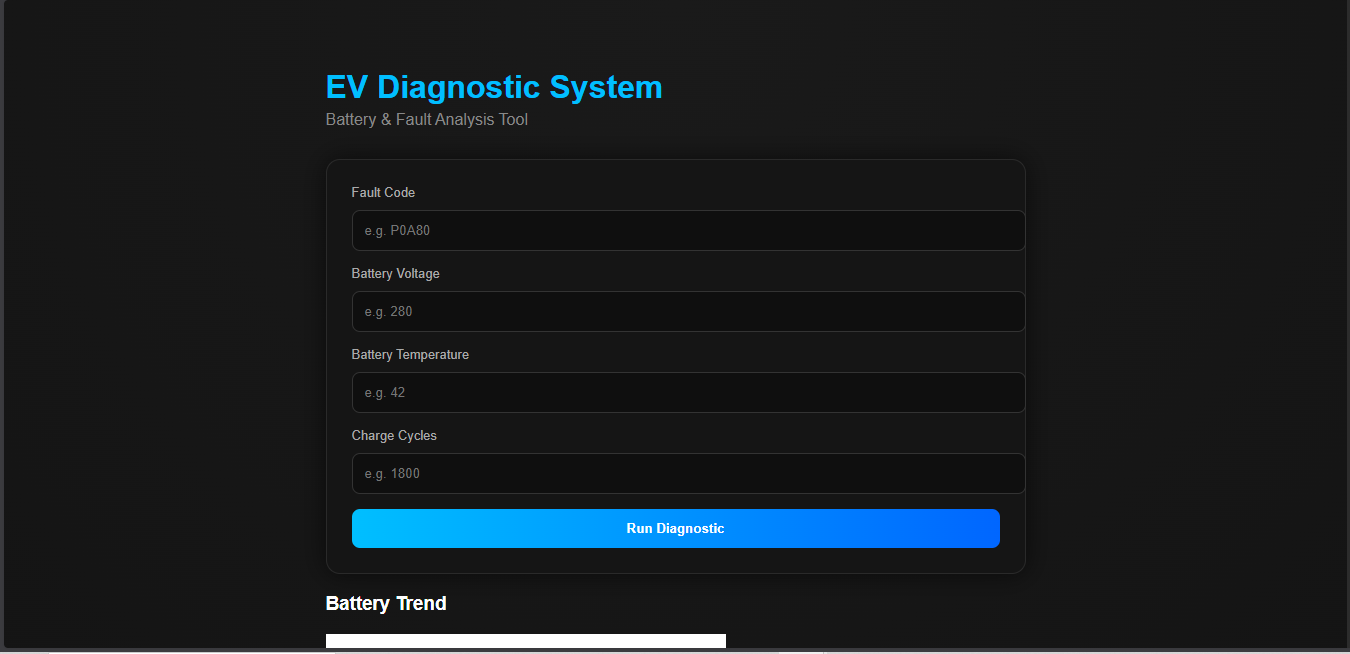
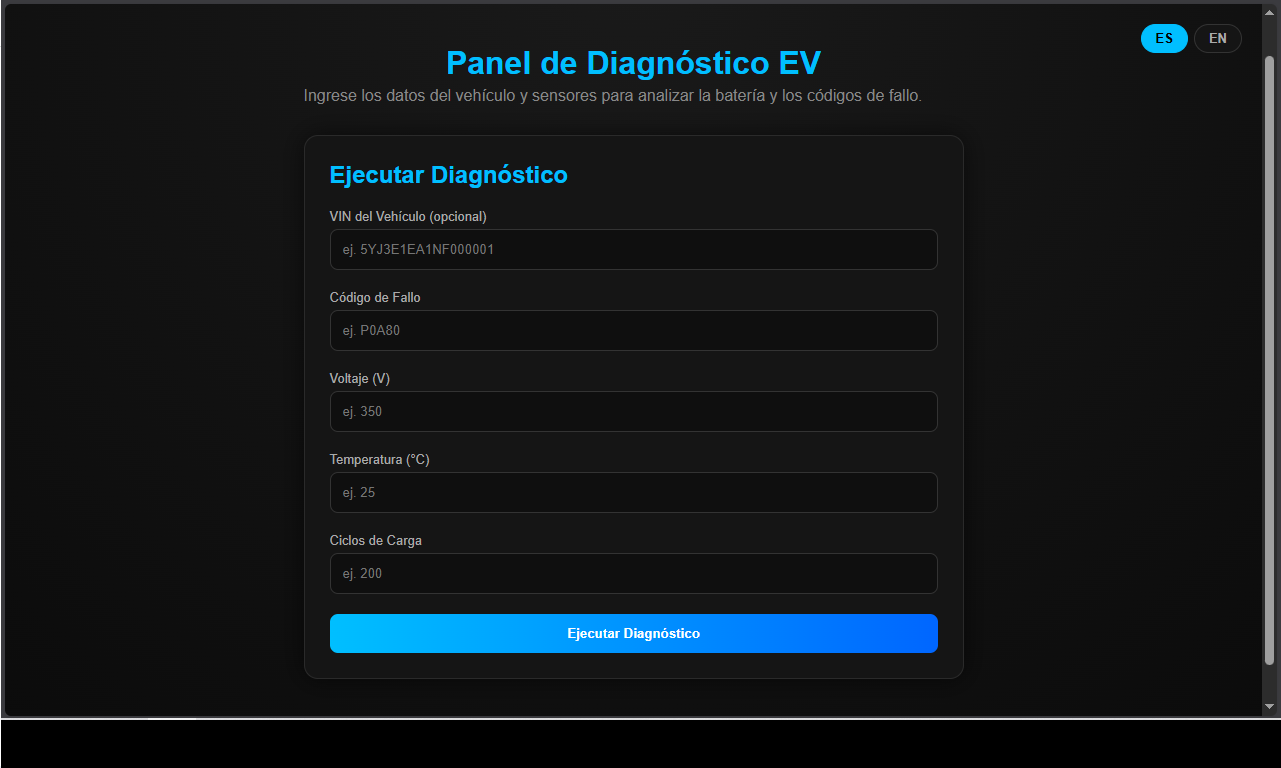
Add REST API and dashboard improvements

diff --git a/app.py b/app.py
@@ -7,7 +7,7 @@ import matplotlib
 matplotlib.use("Agg")
 import matplotlib.pyplot as plt
 import pandas as pd
-from flask import Flask, render_template, request, redirect, url_for, session
+from flask import Flask, render_template, request, redirect, url_for, session, jsonify
 
 from reportlab.lib.pagesizes import letter
 from reportlab.pdfgen import canvas
@@ -419,6 +419,22 @@ def delete_record(record_id):
     return redirect(url_for("history", vin=vin))
 
 
+# REST API
[email redacted]("/api/status")
+def api_status():
+
+    return jsonify({
+        "system": "online",
+        "database": "connected",
+        "vehicles_saved": len(get_all_vins()),
+        "language": get_lang()
+    })
+
+
[email redacted]("/api/vins")
+def api_vins():
+
+    return jsonify(get_all_vins())
 # ── Inicio / Start ────────────────────────────────────────────────────────────
 
 init_db()